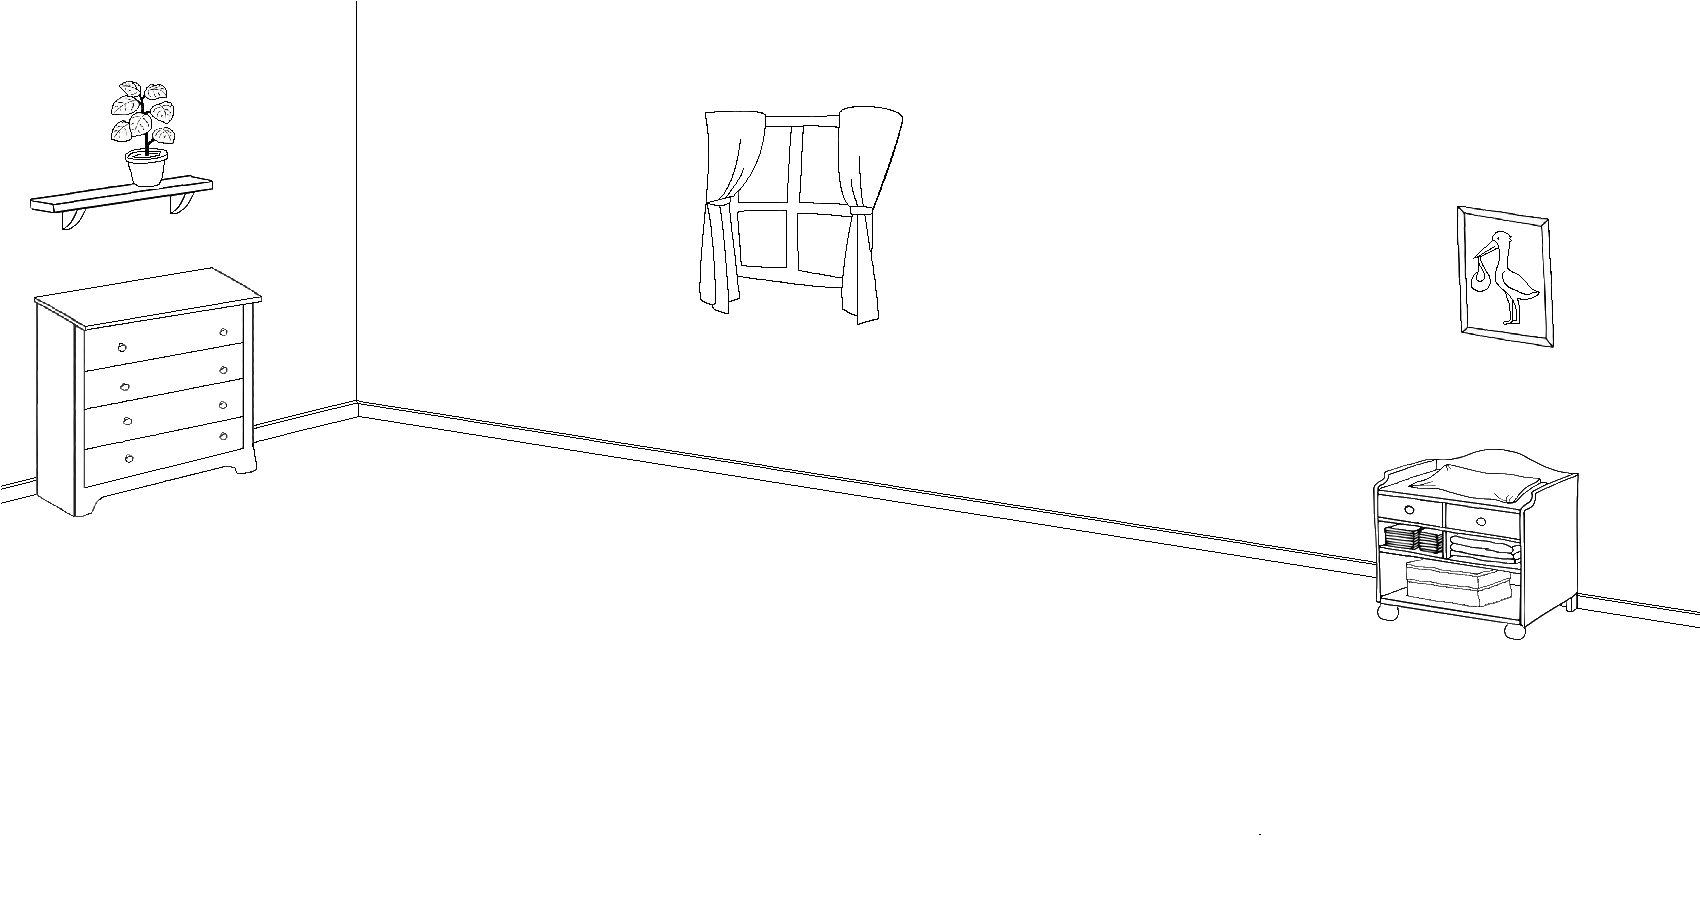
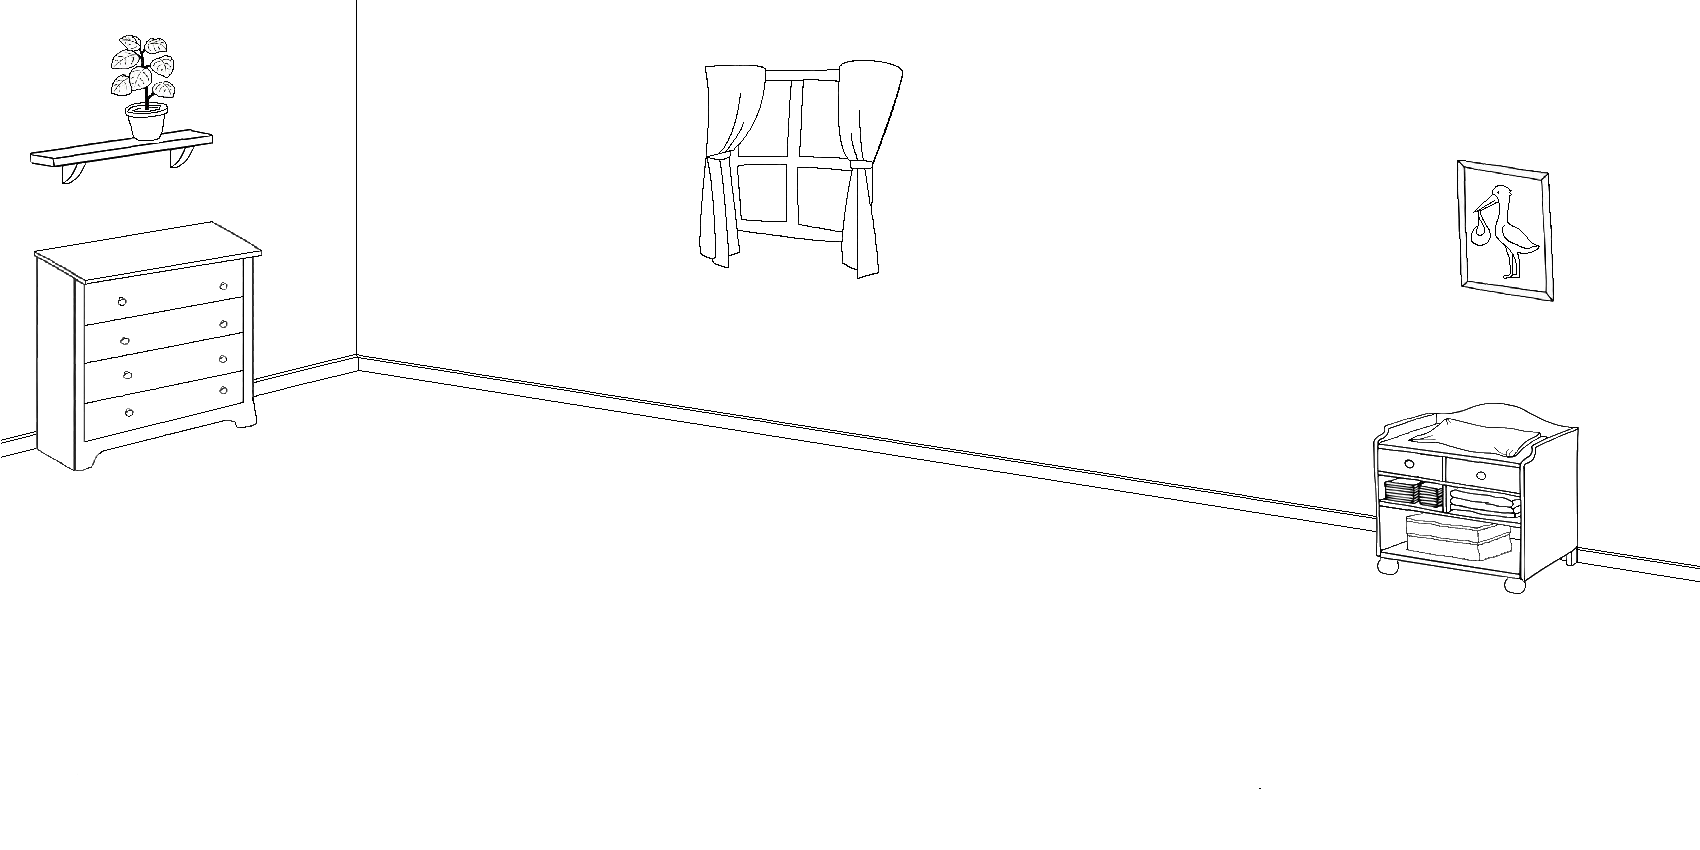
dessins page accueil

diff --git a/assets/styles/app.css b/assets/styles/app.css
@@ -88,7 +88,7 @@ body {
 .imageBabyRoom {
     /* background-image: url('{{ asset('/public/build/images/ ~ baby-room.12505822.png')}}'); */
     /* background-image: url('{{asset('uploads/images/' ~ post.image)}}') */
-    background-image: url('/public/build/images/baby-room.12505822.png ');
+    background-image: url('/public/images/decor-homepage/baby-room.png');
     background-repeat: no-repeat;
     position : relative;
     min-height: 93vh;
@@ -96,11 +96,11 @@ body {
 
     /* Drawing button slippers - Chaussons */
     .linkSlippersBrownDrawing {
-        width: 5%;
+        width: 4.5%;
         height: auto;
         position: absolute;
         left: 140px;
-        top: 245px;
+        top: 210px;
     }
 
     /* Drawing button rabbit comforter - Doudou lapin */
@@ -108,44 +108,113 @@ body {
         width: 8%;
         height: auto;
         position: absolute;
-        left: 20px;
-        top: 550px;
+        left: 15px;
+        top: 515px;
     }
 
     /* Drawing button floor mat - Tapis de sol */
     .linkFloorMatDrawing {
-        width: 10%;
+        width: 18%;
         height: auto;
         position: absolute;
-        left: 300px;
-        top: 255px;
+        left: 160px;
+        top: 400px;
+    }
+
+    /* Drawing button rabbit rattle - Hochet lapin */
+    .linkRabbitRattleDrawing {
+        width: 5.5%;
+        height: auto;
+        position: absolute;
+        left: 250px;
+        top: 670px;
     }
 
     /* Drawing button drawing board - Tableau dessin */
-    .linkDrawingBoardDrawing {
+    .DrawingBoardDrawing {
         width: 14%;
         height: auto;
         position: absolute;
-        left: 450px;
+        left: 460px;
+        top: 225px;
+    }
+
+    /* Text drawing board - Texte Nouveautés */
+    .NoveltiesText {
+        position: absolute;
+        left: 515px;
         top: 300px;
+        transform: rotate(-3.5deg);
+        font-weight: bold;
+        color: red;
     }
 
     /* Drawing button soft toy - Amigurumi */
     .linkSoftToyDrawing {
-        width: 10%;
+        width: 8%;
         height: auto;
         position: absolute;
         left: 450px;
-        top: 500px;
+        top: 620px;
+    }
+
+    /* Drawing dog - Bingo */
+    .dogDrawing {
+        width: 7%;
+        height: auto;
+        position: absolute;
+        left: 750px;
+        top: 460px;
     }
 
     /* Drawing button cradle - Berceau */
     .linkCradleDrawing {
-        width: 10%;
+        position: absolute;
+        left: 870px;
+        top: 215px;
+    }
+
+    /* Image cat - Chat */
+    .catgDrawing {
+        width: 4%;
         height: auto;
         position: absolute;
-        left: 600px;
-        top: 300px;
+        left: 1020px;
+        top: 720px;
+    }
+
+    /* Drawing button mobile - Mobile */
+    .linkMobileDrawing {
+        position: absolute;
+        left: 1150px;
+        top: 20px;
+    }
+
+    /* Drawing button ball - Balle */
+    .linkBallDrawing {
+        width: 4.5%;
+        height: auto;
+        position: absolute;
+        left: 1400px;
+        top: 700px;
+    }
+
+    /* Drawing button toy cubes - Cubes */
+    .linkToyCubesDrawing {
+        width: 6%;
+        height: auto;
+        position: absolute;
+        left: 1550px;
+        top: 600px;
+    }
+
+    /* Drawing button rattle - Hochet */
+    .linkRattleDrawing {
+        width: 4%;
+        height: auto;
+        position: absolute;
+        left: 1450px;
+        top: 405px;
     }
 
 /* Footer style */
